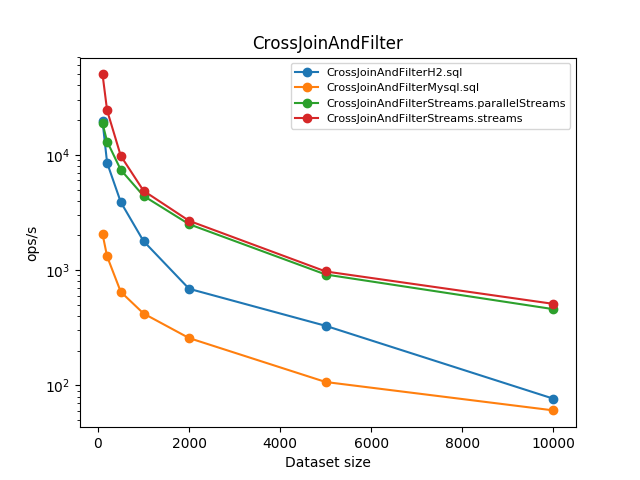
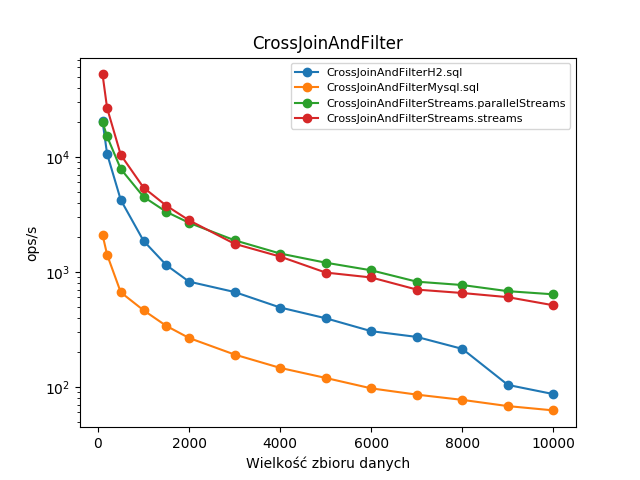
Consistent dataset sizes for syntetic data

diff --git a/text/src/content.tex b/text/src/content.tex
@@ -390,21 +390,6 @@ Combining #42c with #46f
 
     Bazy in-memory wykorzystują wewnątrz struktury danych, które są ścisłym szczegółem implementacyjnym, niewidocznym dla programisty i ukrytym przed zmianami. Jest to w większości przypadków dobre rozwiązanie, pozwalające na odseparowanie wewnętrznej reprezentacji danych od metody dostępu do nich (przykładowo, dane w bazie H2 reprezentowane są przez obiekty klas \texttt{org.h2.mvstore.Page} i \texttt{org.h2.value.*} - rysunek \ref{fig:jvmmemory}). Jednakże przy takim podejściu programista nie ma możliwości optymalizacji (o ile to możliwe) struktur danych i musi polegać na wykorzystanym w silniku bazy optymalizatorze zapytań. W przypadku strumieni wewnętrzne procesy zachodzące przy przetwarzaniu danych są ukryte, natomiast możliwe jest w każdym przypadku przepisanie części procesu na czystą Javę. Strumienie są bardzo wydajne, natomiast tak jak każda abstrakcja nad danymi wprowadzają pewnien niewielki narzut. W przypadku, gdy szybkość jest parametrem krytycznym, możliwe jest zastąpienie operacji klasy \texttt{Stream} zwykłymi konstrukcjami języka (pętle, warunki). 
 
-\subsection{Weryfikacja poprawności składni i format wynikowy}
-
-    Przy wykonywaniu zapytania SQL z poziomu API JDBC nie istnieje żadne sprawdzanie poprawniości zapytania oraz jego składni w czasie kompilacji. Zapytanie wysyłane jest jako zwykły ciąg znaków do serwera bazodanowego, który następnie odczytuje zapytanie i przystępuje do jego interpretacji i wykonania. W związku z tym niemożliwe jest zapewnienie, czy dana tabela istnieje, albo czy dana funkcja SQL istnieje w danym oprogramowaniu bazy danych. Istnieją co prawda rozwiązania typu ORM, które chronią programistę przed niewłaściwym wykorzystaniem obiektu odwzorowanego na tabelę, albo edytory programistyczne z integracjami z serwerami baz, które umożliwiają przeskanowanie istniejących symboli (nazw tabel, kolumn itp.) i skorygowanie programisty, natomiast są to rozwiązania zewnętrzne, działające poza językiem Java. Przetwarzanie strumieniowe odbywa się w całości w języku Java, który jest silnie typowany, przez co niewłaściwe wykorzystanie konstrukcji języka zostanie automatycznie dostrzeżone przez kompilator.
-    
-    Jako przykład przedstawiona zostanie sygnatura statycznej metody \texttt{Collectors.groupingBy}, we fragmencie \ref{genericsexample}. Dzięki zastosowaniu typów ogólnych \cite{generics} (generycznych), możliwe jest zagwarantowanie zgodności typów, o ile nie zostanie zastosowanie niebezpieczne rzutowanie.
-
-\begin{lstlisting}[label=genericsexample, caption=Sygnatura metody grupującej]
-  public static <T, K> Collector<T, ?, Map<K, List<T>>>
-  groupingBy(Function<? super T, ? extends K> classifier) 
-  { ...  }
-\end{lstlisting}
-
-    Przykładowo, wynikiem grupowania zbioru obiektów typu \texttt{T} (bądź jego typu pochodnego) na podstawie ich pola o typie \texttt{K} (bądź pola typu dziedziczonego) będzie zawsze \texttt{Map<T, List<K>}\texttt{>}. Dzięki temu typowe błędy przy odczytywaniu wyników z zapytania SQL przy użyciu obiektu \texttt{ResultSet} (niewłaściwy typ kolumny, niestniejące pole) nie występują.
-
-    Wynikiem poprawnego zapytania SQL jest zawsze lista krotek, zawierająca wszystkie wiersze pasujące do zapytania i wszystkie kolumny wymienione w klauzuli \texttt{SELECT}. Przy wykonywaniu zapytania z poziomu silnie typowanego języka programowania obiekt reprezentujący wynik zapytania nie posiada informacji o typach danych kolumn. Przykładowo, w języku Java, do wyciągania danych służą obiekty klasy \texttt{ResultSet} udostępniające metody typu \texttt{getInt()} czy \texttt{getString()}. Błąd programisty polegający na użyciu niewłaściwej metody zakończy się wyjątkiem w czasie działania programu, i nie jest możliwy do automatycznego wykrycia przed próbą uruchomienia programu. W przypadku Stream API, wynikiem zapytania jest zawsze typ języka Java, a poprawność syntaktyczna gwarantowana jest przez kompilator i złożony system typów języka. Próba odwołania się do nieistniejącego pola bądź próba wykonania niewłaściwej operacji na określonym typie danych nie skompiluje się. 
 
 \subsection{Język domenowy (DSL) a język ogólnego przeznaczenia}
 
@@ -702,9 +687,9 @@ List<Pair<String, Double>> result = StreamUtils.innerJoin(
     Strumień, będąc abstrakcyjną formą reprezentacji źródła danych, tworzony może być na kilka różnych sposobów, ale sposoby te nie wpływają semantycznie na proces przetwarzania danych. Zwykle strumień tworzony jest na podstawie kolekcji - przy konsumowaniu elementów, kolekcja dostarcza elementy wykonując wewnętrzną iterację (\textit{internal iteration}), która jest procesem ukrytym przed programistą. Inne sposoby tworzenia strumieni, takie jak generowanie ich w locie, wczytywanie z dysku bądź z sieci, nie są zbyt praktyczne. Związane jest to z konstrukcją wewnętrzną strumieni, które działają na zasadzie "pytania o kolejny element" (\textit{pull-based}). Decyzją implementacyjną projektantów Stream API było wykorzystanie modelu przetwarzania ciągłego, w którym to strumień wykonuje akcję pobrania następnego elementu. W związku z tym, nie jest możliwe (przynajmniej w domyślnej formie) efektywne asynchroniczne dostarczanie nowych elementów, ponieważ każda operacja pobrania elementu jest operacją blokującą, wywoływaną po zakończeniu przetwarzania poprzedniego elementu. Model odwrotny do powyższego, tzw. model \textit{push-based}, wykorzystywany np. w bibliotekach RxJava bazujących na wzorcu Observable, ma lepsze zastosowanie w takich przypadkach. Brian Goetz, zapytany o możliwości przetwarzania asynchronicznego w domyślnych strumieniach Java 8 stwierdził \cite{goetz}:
 
 \begin{quote}
-The design center for Streams is mostly about data that can be accessed with no latency (either from data structures or generating functions); the design center for Rx is about infinite streams of events which may arrive asynchronously.
+    (...) The design center for Streams is mostly about data that can be accessed with no latency (either from data structures or generating functions); the design center for Rx is about infinite streams of events which may arrive asynchronously.
 
-    Zamiarem architektonicznym Stream API było przetwarzanie danych, które są dostępne bez żadnych opóźnień (pochodzących ze struktur danych bądź funkcji generujących), celem Rx jest obsługa nieskończonych strumieni zdarzeń, które mogą pojawiać się asynchronicznie (\textit{tłum. aut.}).
+    (...) Zamiarem architektonicznym Stream API było przetwarzanie danych, które są dostępne bez żadnych opóźnień (pochodzących ze struktur danych bądź funkcji generujących), celem Rx jest obsługa nieskończonych strumieni zdarzeń, które mogą pojawiać się asynchronicznie (\textit{tłum. aut.}).
 
 \end{quote}
 
@@ -780,6 +765,21 @@ Filtering: 5
 * streamy są bardzo ograniczone, ale istnieją lepsze jooq streamex
 * porównanie push-pull (Observable), streamy nie są async mimo parallell
 
+\subsection{Weryfikacja poprawności składni i format wynikowy}
+
+    Przy wykonywaniu zapytania SQL z poziomu API JDBC nie istnieje żadne sprawdzanie poprawniości zapytania oraz jego składni w czasie kompilacji. Zapytanie wysyłane jest jako zwykły ciąg znaków do serwera bazodanowego, który następnie odczytuje zapytanie i przystępuje do jego interpretacji i wykonania. W związku z tym niemożliwe jest zapewnienie, czy dana tabela istnieje, albo czy dana funkcja SQL istnieje w danym oprogramowaniu bazy danych. Istnieją co prawda rozwiązania typu ORM, które chronią programistę przed niewłaściwym wykorzystaniem obiektu odwzorowanego na tabelę, albo edytory programistyczne z integracjami z serwerami baz, które umożliwiają przeskanowanie istniejących symboli (nazw tabel, kolumn itp.) i skorygowanie programisty, natomiast są to rozwiązania zewnętrzne, działające poza językiem Java. Przetwarzanie strumieniowe odbywa się w całości w języku Java, który jest silnie typowany, przez co niewłaściwe wykorzystanie konstrukcji języka zostanie automatycznie dostrzeżone przez kompilator.
+    
+    Jako przykład przedstawiona zostanie sygnatura statycznej metody \texttt{Collectors.groupingBy}, we fragmencie \ref{genericsexample}. Dzięki zastosowaniu typów ogólnych \cite{generics} (generycznych), możliwe jest zagwarantowanie zgodności typów, o ile nie zostanie zastosowanie niebezpieczne rzutowanie.
+
+\begin{lstlisting}[label=genericsexample, caption=Sygnatura metody grupującej]
+  public static <T, K> Collector<T, ?, Map<K, List<T>>>
+  groupingBy(Function<? super T, ? extends K> classifier) 
+  { ...  }
+\end{lstlisting}
+
+    Przykładowo, wynikiem grupowania zbioru obiektów typu \texttt{T} (bądź jego typu pochodnego) na podstawie ich pola o typie \texttt{K} (bądź pola typu dziedziczonego) będzie zawsze \texttt{Map<T, List<K>}\texttt{>}. Dzięki temu typowe błędy przy odczytywaniu wyników z zapytania SQL przy użyciu obiektu \texttt{ResultSet} (niewłaściwy typ kolumny, niestniejące pole) nie występują.
+
+    Wynikiem poprawnego zapytania SQL jest zawsze lista krotek, zawierająca wszystkie wiersze pasujące do zapytania i wszystkie kolumny wymienione w klauzuli \texttt{SELECT}. Przy wykonywaniu zapytania z poziomu silnie typowanego języka programowania obiekt reprezentujący wynik zapytania nie posiada informacji o typach danych kolumn. Przykładowo, w języku Java, do wyciągania danych służą obiekty klasy \texttt{ResultSet} udostępniające metody typu \texttt{getInt()} czy \texttt{getString()}. Błąd programisty polegający na użyciu niewłaściwej metody zakończy się wyjątkiem w czasie działania programu, i nie jest możliwy do automatycznego wykrycia przed próbą uruchomienia programu. W przypadku Stream API, wynikiem zapytania jest zawsze typ języka Java, a poprawność syntaktyczna gwarantowana jest przez kompilator i złożony system typów języka. Próba odwołania się do nieistniejącego pola bądź próba wykonania niewłaściwej operacji na określonym typie danych nie skompiluje się. 
 \subsection{Ocena i krytyka}
 
     Wprowadzenie do języka Java mechanizmów programowania funkcyjnego zostało bardzo pozytywnie ocenione przez programistów, mimo iż mechanizmy te obecne były w innych językach programowania ogólnego przeznaczenia znacznie wcześniej. Duży nacisk projektantów platformy na wsteczną kompatybilność i obawy przed wprowadzeniem zmian, które nie okażą się korzystne, a konieczne będzie ich utrzymywanie, powodują, że język ten nie rozwija się w takim tempie, jak inne języki. Przykładowo, postanowiono nie wprowadzać metody \texttt{Iterable.stream} konwertującej obiekt wspierający protokół iteracji Java na strumień, mimo iż nie można wskazać żadnych przeciwwskazań do jej istnienia, a i można wskazać zastępcze rozwiązania, które mogłyby być wprowadzone bez większych zmian do API.
@@ -895,9 +895,29 @@ Rozwiązanie to jest znacznie szybsze, wymaga jednak unikalności wartości kluc
 \section{Podsumowanie}
 
 \subsection{Wnioski}
-\subsection{Napotkane problemy}
-\subsection{Dalsze badania}
 
+strumienie i FP wygodne
+strumienie do przetwarzania w pamięci zrównoleglalnch rzeczy - super
+parallel ma narzut
+sql do pamięci - może być, ale potrzebne np. pamięci z podtrzymaniem, jeśli dane są ważne to słabo (bakcupy)
+strumienie nie nadają się do skomplikowanych operacji bez dużej ilości kodu, statyczne typowanie wchodzi w drogę, 
+raczej ciągi pojedynczych obiektów, nie osobne kolekcje
+nie chodzi tu tylko o szybkość, ale np. backupy i wsparcie vendorów
+
+
+\subsection{Napotkane problemy}
+
+    Jednym z największych wyzwań było zaproponowanie i zaimplementowanie rozwiązania, pozwalającego na import danych bazy testowej TPC zarówno do środowiska bazy SQL, jak i do modelu danych w pamięci wykorzystywanego przez Stream API. Różnice w sposobie dodawania danych, jak i w sposobie ich odczytu wymagały przemyślenia struktury rozwiązania, a następnie napisania dużej ilości pomocniczego kodu pośredniczącego. Pojawiły się poważne problemy wydajnościowe, związane z prędkością importowania danych do bazy MySQL przez dużą liczbę kwerend \texttt{SELECT}. Konieczne okazało się opakowanie narzędzia importującego \texttt{mysqlimport} i zintegrowanie go z istniejącym kodem Java.
+
+    Technicznym problemem, który pojawił się na samym początku budowy środowiska testowego, było umożliwienie wykonywania metod przeznaczonych do badania zarówno poprzez narzędzie JMH, jak i w testach jednostkowych JUnit. Specificzna budowa klasy testu referencyjnego (m. in. automatyczna, zewnętrzna parametryzacja), wspierająca łatwe wykonywanie prostych badań, okazała się bardzo problematyczna w zakresie możliwości jej użycia poza kontekstem JMH. Konieczne było znalezienie sposobu, w którym kolejne wywołania metod z klasy testu referencyjnego nie naruszają logicznej struktury kodu i umożliwiają wyciągnięcie, a następnie porównanie wyników wszystkich typów testów.
+
+    Generowanie danych pseudolosowych było konieczne do implementacji testów operujących na danych syntetycznych. Okazało się, że testowanie poprawności wyników zapytań dla wszystkich metod dostępu do danych jest niemożliwe, jeśli generator dostarcza różne dane przy kolejnych jego uruchomieniach. Ze względu na chęć uzyskania jak największej powtarzalności, wykorzystano stałe ziarno generatora losowego \texttt{java.util.Random}.
+
+\subsection{Możliwości dalszych badań}
+
+    W dalszych pracach nad porównaniem możliwości przetwarzania pamięciowego jednym z pomysłów jest zbadanie baz NoSQL działających w pamięci. Rozwiązania nierelacyjne posiadają wiele cech niespotykanych w tradycyjnych bazach SQL, takich jak brak ściśle zdefiniowanego schematu czy praca w modelu rozproszonym (\textit{sharding}). Być może cechy te przekładają się na wydajność czy sposób formułowania kodu aplikacji w taki sposób, że NoSQL będzie miał przewagę nad analizowanymi w niniejszej pracy rozwiązaniami.
+
+    Stream API jest bardzo wygodnym interfejsem programistycznym, którego zakres widoczny przez końcowego użytkownika jest niewielki. Szczegóły implementacyjne, takie jak interfejs \texttt{Spliterator} pozwalający na dokładne zdefiniowanie sposobu podziału zadań na wątki, czy realizacja przydziału zadań do wątków, mogą być istotnym tematem do analizy. Możliwe, że odpowiednie zrozumienie i wykorzystanie niskopoziomowych klas strumieni pozwoliłoby na dokonanie lepszych optymalizacji i w konsekwencji uzyskaniu lepszych wyników. Dobrym pomysłem byłoby zaproponowanie odmiany Stream API zorientowanej na wydajność, do zastosowań podobnych jak te, o których opisuje niniejsza praca.
 
 \begin{thebibliography}{9}
 

diff --git a/src/main/java/mastersthesis/JavaMain.java b/src/main/java/mastersthesis/JavaMain.java
@@ -1,13 +1,15 @@
 package mastersthesis;
 
-import java.time.LocalDate;
-import java.time.Month;
+import java.util.stream.IntStream;
 
 public class JavaMain {
     
     public static void main(String[] args) throws Exception {
-        System.out.println(
-                LocalDate.of(2017, Month.JANUARY, 31).plusMonths(1)
-        );
+        IntStream.range(1, 100).parallel()
+                .forEach(e -> System.out.println(
+                        Thread.currentThread().getName()
+                        )
+                );
+
     }
 }

diff --git a/plots/test.py b/plots/test.py
@@ -38,7 +38,7 @@ def plot(data, title):
         plt.legend(prop={'size': 8})
 
     plt.ylabel('ops/s')
-    plt.xlabel('Dataset size')
+    plt.xlabel('Wielkość zbioru danych')
     plt.title(title)
 
 
@@ -57,6 +57,8 @@ data = read_and_parse_file(input_filename)
 groups = [list(g) for k, g in groupby(data, itemgetter(0))]
 
 groups_transposed = to_transposed(groups)
+
+#plt.figure(figsize = (8, 8)) # if needed
 
 plot(groups_transposed, sys.argv[3])
 

diff --git a/src/jmh/java/masterthesis/samples/crossjoinandfilter/CrossJoinAndFilterStreams.java b/src/jmh/java/masterthesis/samples/crossjoinandfilter/CrossJoinAndFilterStreams.java
@@ -22,7 +22,7 @@ public class CrossJoinAndFilterStreams {
     private List<Pair<Integer, Integer>> firstList = new ArrayList<>();
     private List<Pair<Integer, String>> secondList = new ArrayList<>();
     
-    @Param({"100", "200", "500", "1000", "2000", "5000", "10000"})
+    @Param({"100", "200", "500", "1000", "1500", "2000", "3000", "4000", "5000", "6000", "7000", "8000", "9000", "10000"})
     public int numberCount;
     
     @Setup

diff --git a/src/jmh/java/masterthesis/samples/filteringandcountingintegers/FilteringAndCountingIntegersStreams.java b/src/jmh/java/masterthesis/samples/filteringandcountingintegers/FilteringAndCountingIntegersStreams.java
@@ -18,7 +18,7 @@ public class FilteringAndCountingIntegersStreams {
     private List<Integer> numbers = new ArrayList<>();
     private int[] numbersArray;
     
-    @Param({"100", "200", "500", "1000", "2000", "5000", "10000"})
+    @Param({"100", "200", "500", "1000", "1500", "2000", "3000", "4000", "5000", "6000", "7000", "8000", "9000", "10000"})
     public int numberCount;
     
     @Setup

diff --git a/src/jmh/java/masterthesis/samples/summingintegers/SummingIntegersStreams.java b/src/jmh/java/masterthesis/samples/summingintegers/SummingIntegersStreams.java
@@ -18,7 +18,7 @@ public class SummingIntegersStreams {
     private List<Integer> numbers = new ArrayList<>();
     private int[] numbersArray;
     
-    @Param({"100", "200", "500", "1000", "2000", "5000", "10000"})
+    @Param({"100", "200", "500", "1000", "1500", "2000", "3000", "4000", "5000", "6000", "7000", "8000", "9000", "10000"})
     public int numberCount;
     
     @Setup

diff --git a/src/jmh/java/masterthesis/samples/sortingstrings/SortingStringsStreams.java b/src/jmh/java/masterthesis/samples/sortingstrings/SortingStringsStreams.java
@@ -19,7 +19,7 @@ public class SortingStringsStreams {
     private List<String> strings = new ArrayList<>();
     private String[] stringsArray;
     
-    @Param({"100", "200", "500", "1000", "2000", "5000", "10000"})
+    @Param({"100", "200", "500", "1000", "1500", "2000", "3000", "4000", "5000", "6000", "7000", "8000", "9000", "10000"})
     public int count;
     
     @Setup

diff --git a/src/jmh/java/masterthesis/samples/groupingandsumming/GroupingAndSummingStreams.java b/src/jmh/java/masterthesis/samples/groupingandsumming/GroupingAndSummingStreams.java
@@ -20,7 +20,7 @@ public class GroupingAndSummingStreams {
     
     private List<Pair<Integer, Integer>> pairs = new ArrayList<>();
     
-    @Param({"100", "200", "500", "1000", "2000", "5000", "10000"})
+    @Param({"100", "200", "500", "1000", "1500", "2000", "3000", "4000", "5000", "6000", "7000", "8000", "9000", "10000"})
     public int numberCount;
     
     @Setup

diff --git a/src/jmh/java/masterthesis/samples/filteringandcountingintegers/FilteringAndCountingIntegersMysql.java b/src/jmh/java/masterthesis/samples/filteringandcountingintegers/FilteringAndCountingIntegersMysql.java
@@ -22,7 +22,7 @@ public class FilteringAndCountingIntegersMysql {
     
     private Connection connection;
     
-    @Param({"100", "200", "500", "1000", "2000", "5000", "10000"})
+    @Param({"100", "200", "500", "1000", "1500", "2000", "3000", "4000", "5000", "6000", "7000", "8000", "9000", "10000"})
     public int numberCount;
     
     @Setup

diff --git a/src/jmh/java/masterthesis/samples/filteringandcountingintegers/FilteringAndCountingIntegersH2.java b/src/jmh/java/masterthesis/samples/filteringandcountingintegers/FilteringAndCountingIntegersH2.java
@@ -22,7 +22,7 @@ public class FilteringAndCountingIntegersH2 {
     
     private Connection connection;
     
-    @Param({"100", "200", "500", "1000", "2000", "5000", "10000"})
+    @Param({"100", "200", "500", "1000", "1500", "2000", "3000", "4000", "5000", "6000", "7000", "8000", "9000", "10000"})
     public int numberCount;
     
     @Setup

diff --git a/src/jmh/java/masterthesis/samples/crossjoinandfilter/CrossJoinAndFilterMysql.java b/src/jmh/java/masterthesis/samples/crossjoinandfilter/CrossJoinAndFilterMysql.java
@@ -22,7 +22,7 @@ public class CrossJoinAndFilterMysql {
     
     private Connection connection;
     
-    @Param({"100", "200", "500", "1000", "2000", "5000", "10000"})
+    @Param({"100", "200", "500", "1000", "1500", "2000", "3000", "4000", "5000", "6000", "7000", "8000", "9000", "10000"})
     public int numberCount;
     
     @Setup

diff --git a/src/jmh/java/masterthesis/samples/groupingandsumming/GroupingAndSummingMysql.java b/src/jmh/java/masterthesis/samples/groupingandsumming/GroupingAndSummingMysql.java
@@ -20,7 +20,7 @@ public class GroupingAndSummingMysql {
     
     private Connection connection;
     
-    @Param({"100", "200", "500", "1000", "2000", "5000", "10000"})
+    @Param({"100", "200", "500", "1000", "1500", "2000", "3000", "4000", "5000", "6000", "7000", "8000", "9000", "10000"})
     public int numberCount;
     
     @Setup
